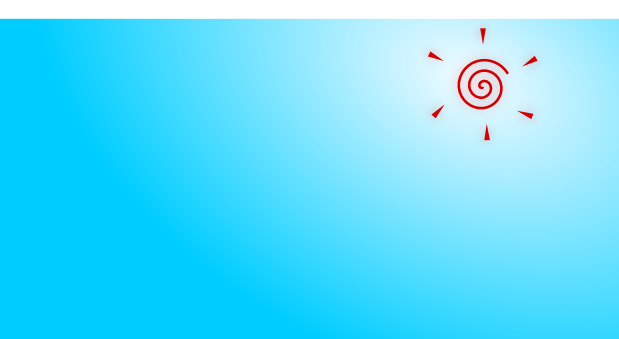
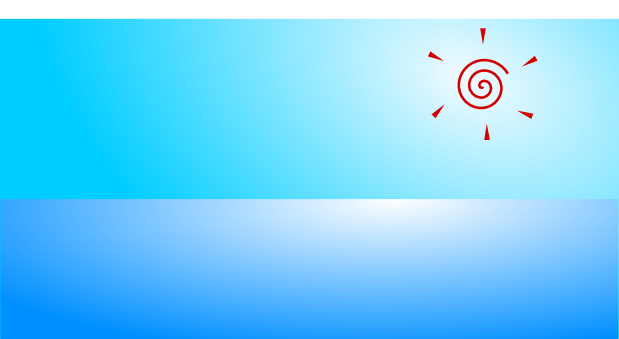
・背景画像追加 　⇒背景の氷山 ・背景画像変更 ・海の動作を一時コメント化

diff --git a/FirstGame/GameScene.m b/FirstGame/GameScene.m
@@ -76,8 +76,8 @@ BOOL fishAdd;
 
         
         //海
-        [Sea setSeaFrame:self.frame];
-        [self addChild:[Sea getSea]];
+        //[Sea setSeaFrame:self.frame];
+        //[self addChild:[Sea getSea]];
         
         
         
